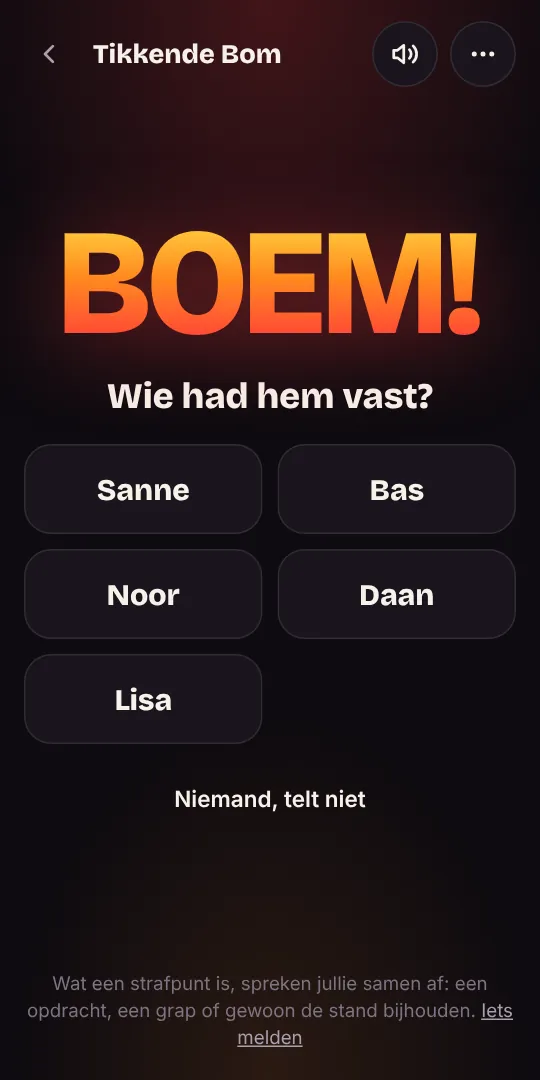
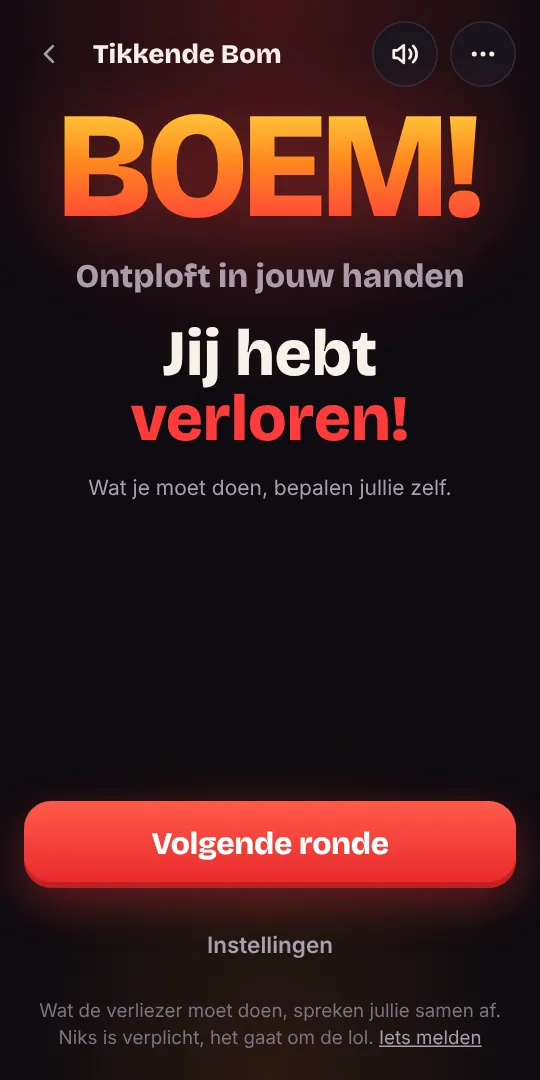
Tikkende Bom simpeler: geen namen en geen strafpunten, wie hem vasthoudt heeft verloren
Je hoeft geen namen meer in te vullen en er worden geen strafpunten of stand bijgehouden. Ontploft de bom, dan staat er
groot "Ontploft in jouw handen. Jij hebt verloren!" en bepalen jullie zelf wat de verliezer doet. Daarna de volgende
ronde. Instellingen: alleen de lengte van de lont en of er pittige opdrachten tussen zitten. Uitleg (nu 4 dia's),
de tekst in De Spelkeet en de README aangepast.

Claude-Session: https://claude.ai/code/session_01PPbKnCgFtwn9juUNX2EXqM

diff --git a/public/bom.html b/public/bom.html
@@ -92,19 +92,6 @@ p{margin:0}
 .steps b{color:var(--txt)}
 .howlink{display:inline-flex;align-items:center;gap:8px;margin-top:12px;min-height:40px;padding:0 14px;border-radius:999px;background:var(--card-2);font-weight:700;font-size:14px}
 
-.add{display:flex;gap:8px}
-.add input{flex:1;min-width:0;min-height:52px;padding:0 16px;border:0;border-radius:16px;background:var(--bg-2);box-shadow:inset 0 0 0 1px var(--line);color:var(--txt);font:600 17px var(--body)}
-.add input::placeholder{color:#6f6676}
-.add input:focus{outline:3px solid var(--orange);outline-offset:1px}
-.add button{flex:none;width:52px;min-height:52px;border-radius:16px;background:var(--orange);color:#1a0d06;font:800 26px/1 var(--head)}
-.add button:disabled{opacity:.4}
-.names{display:flex;flex-wrap:wrap;gap:8px;margin-top:12px}
-.names:empty{display:none}
-.name{display:inline-flex;align-items:center;gap:6px;min-height:40px;padding:0 6px 0 14px;border-radius:999px;background:var(--card-2);font-weight:700}
-.name button{display:grid;place-items:center;width:30px;height:30px;border-radius:50%;color:var(--mute);font-size:16px}
-.name button:hover{background:rgba(255,255,255,.08);color:var(--txt)}
-.hint{margin-top:10px;color:var(--mute);font-size:13.5px}
-
 .set{display:grid;gap:14px}
 .set > div{display:grid;gap:8px}
 .seg{display:grid;grid-auto-flow:column;grid-auto-columns:1fr;gap:4px;padding:4px;border-radius:16px;background:var(--bg-2);box-shadow:inset 0 0 0 1px var(--line)}
@@ -114,12 +101,10 @@ p{margin:0}
 /* de opdracht */
 .round{display:flex;align-items:center;justify-content:center;gap:8px;flex-wrap:wrap}
 .pill{display:inline-flex;align-items:center;gap:6px;min-height:30px;padding:0 12px;border-radius:999px;background:var(--card);box-shadow:inset 0 0 0 1px var(--line);font-size:13px;font-weight:700;letter-spacing:.06em;text-transform:uppercase;color:var(--mute)}
-.pill.hot{background:rgba(255,210,63,.14);box-shadow:inset 0 0 0 1px rgba(255,210,63,.55);color:var(--yellow)}
 .task{display:grid;gap:10px;padding:28px 20px;border-radius:28px;text-align:center;background:linear-gradient(160deg,#2a1d2c,#1a131c);box-shadow:inset 0 0 0 1px rgba(255,138,31,.28),0 20px 60px rgba(0,0,0,.45)}
 .task .label{color:var(--orange)}
 .task .say{font-family:var(--head);font-weight:800;font-size:clamp(32px,9.5vw,46px);line-height:1.04;text-wrap:balance;overflow-wrap:anywhere}
 .who{text-align:center;font-size:17px;color:var(--mute)}
-.who b{color:var(--txt);font-family:var(--head);font-size:22px}
 .grow{flex:1}
 
 /* de bom tikt */
@@ -144,26 +129,9 @@ p{margin:0}
 .shake{animation:shake .45s}
 @keyframes shake{10%,90%{transform:translateX(-2px)}20%,80%{transform:translateX(4px)}30%,50%,70%{transform:translateX(-8px)}40%,60%{transform:translateX(8px)}}
 @media (prefers-reduced-motion:reduce){.boom h2,.shake{animation:none}}
-.boom .q{font-family:var(--head);font-weight:800;font-size:24px}
-.pick{display:grid;grid-template-columns:1fr 1fr;gap:10px}
-.pick button{min-height:60px;padding:8px 12px;border-radius:18px;background:var(--card);box-shadow:inset 0 0 0 1px var(--line);font-family:var(--head);font-weight:800;font-size:20px;overflow-wrap:anywhere}
-.pick button:hover,.pick button:focus-visible{background:var(--card-2);box-shadow:inset 0 0 0 2px var(--red)}
-.big{font-family:var(--head);font-weight:800;font-size:30px;line-height:1.1}
-.big em{font-style:normal;color:var(--red)}
-
-/* de stand */
-.score{display:grid;gap:8px;margin:0;padding:0;list-style:none}
-.score li{display:grid;grid-template-columns:28px 1fr auto;align-items:center;gap:10px;padding:12px 14px;border-radius:16px;background:var(--card);box-shadow:inset 0 0 0 1px var(--line);position:relative;overflow:hidden}
-.score li .bar{position:absolute;left:0;top:0;bottom:0;background:linear-gradient(90deg,rgba(255,59,59,.22),rgba(255,138,31,.08));z-index:0;transition:width .5s ease-out}
-.score li > *:not(.bar){position:relative;z-index:1}
-.score .pos{font-family:var(--head);font-weight:800;color:var(--mute)}
-.score .nm{font-weight:700;font-size:17px;overflow-wrap:anywhere}
-.score .pt{font-family:var(--head);font-weight:800;font-size:22px}
-.score .pt small{font-family:var(--body);font-weight:600;font-size:12px;color:var(--mute);margin-left:4px}
-.score li.new{box-shadow:inset 0 0 0 2px var(--red)}
-.winner{display:grid;justify-items:center;gap:6px;text-align:center;padding:24px 16px;border-radius:26px;background:linear-gradient(160deg,#3a1418,#1c1216);box-shadow:inset 0 0 0 1px rgba(255,59,59,.4)}
-.winner .crown{font-size:40px;line-height:1}
-.winner b{font-family:var(--head);font-weight:800;font-size:clamp(34px,10vw,48px);line-height:1}
+.boom .hands{font-family:var(--head);font-weight:800;font-size:22px;color:var(--mute)}
+.boom .lost{font-family:var(--head);font-weight:800;font-size:clamp(40px,12vw,58px);line-height:1;color:var(--txt);text-wrap:balance}
+.boom .lost em{font-style:normal;color:var(--red)}
 
 /* pauze en menu */
 .overlay{position:fixed;inset:0;z-index:20;display:grid;place-items:center;padding:24px;background:rgba(8,6,10,.82);-webkit-backdrop-filter:blur(8px);backdrop-filter:blur(8px)}
@@ -191,13 +159,13 @@ p{margin:0}
     <button class="iconbtn" id="menuBtn" type="button" aria-label="Menu" aria-expanded="false"><svg width="20" height="20" viewBox="0 0 24 24" fill="currentColor" aria-hidden="true"><circle cx="5" cy="12" r="2"/><circle cx="12" cy="12" r="2"/><circle cx="19" cy="12" r="2"/></svg></button>
   </header>
   <main id="screen" class="screen"></main>
-  <p class="fine" id="fine">Wat een strafpunt is, spreken jullie samen af: een opdracht, een grap of gewoon de stand bijhouden. <a href="/melden">Iets melden</a></p>
+  <p class="fine" id="fine">Wat de verliezer moet doen, spreken jullie samen af. Niks is verplicht, het gaat om de lol. <a href="/melden">Iets melden</a></p>
 </div>
 
 <div class="menu" id="menu" hidden>
   <nav aria-label="Menu">
     <button type="button" data-act="uitleg">❓ Hoe werkt het?</button>
-    <button type="button" data-act="stop" id="menuStop">🏁 Stoppen en de stand zien</button>
+    <button type="button" data-act="instellingen" id="menuSet">⚙ Instellingen</button>
     <a href="/review?spel=bom">⭐ Wat vind je ervan?</a>
     <a href="/melden">🚩 Iets melden</a>
     <a href="/?tab=een">🏠 Terug naar De Spelkeet</a>
@@ -257,23 +225,18 @@ function opdrachten(pittig){
   return shuffle(out);
 }
 
-/* ================= INSTELLINGEN EN STAND ================= */
+/* ================= INSTELLINGEN ================= */
+// Geen namen en geen punten: bij wie hij ontploft, heeft verloren, en wat die moet doen bepalen jullie zelf.
 const TIJD = { kort: [10, 25], normaal: [15, 45], lang: [30, 70] };
 const KEY = 'spelkeet-bom';
 const load = () => { try { return JSON.parse(localStorage.getItem(KEY)) || {}; } catch (e) { return {}; } };
 const saved = load();
-const S = {
-  spelers: Array.isArray(saved.spelers) ? saved.spelers.filter((n) => typeof n === 'string').slice(0, 12) : [],
-  punten: [1, 2, 3].includes(saved.punten) ? saved.punten : 2,
-  tijd: TIJD[saved.tijd] ? saved.tijd : 'normaal',
-  pittig: !!saved.pittig,
-  geluid: saved.geluid !== false,
-};
+const S = { tijd: TIJD[saved.tijd] ? saved.tijd : 'normaal', pittig: !!saved.pittig, geluid: saved.geluid !== false };
 const save = () => { try { localStorage.setItem(KEY, JSON.stringify(S)); } catch (e) { /* geen opslag: dan vergeet hij het */ } };
-// het potje van nu
+// het potje van nu: welke ronde en welke opdrachten nog over zijn
 let G = null;
 function nieuwPotje(){
-  G = { ronde: 0, scores: Object.fromEntries(S.spelers.map((n) => [n, 0])), knallen: 0, houder: S.spelers.length ? Math.floor(Math.random() * S.spelers.length) : -1, bag: opdrachten(S.pittig), opdracht: null, dubbel: false, laatste: null, start: Date.now() };
+  G = { ronde: 0, bag: opdrachten(S.pittig), opdracht: null };
   try { fetch('/api/potje', { method: 'POST', headers: { 'Content-Type': 'application/json' }, body: JSON.stringify({ spel: 'bom' }), keepalive: true }).catch(() => {}); } catch (e) { /* niet erg */ }
 }
 function volgendeOpdracht(){
@@ -347,7 +310,6 @@ function tik(){
 }
 function knal(){
   schermAan(false); boemGeluid(); tril([500, 120, 300]);
-  G.knallen++;
   toon('boem');
 }
 // een telefoon die op slot gaat of een andere app: dan even pauze, zodat niemand onterecht ontploft
@@ -364,39 +326,29 @@ const BOMB = (cls = '') => `<svg class="bomb ${cls}" viewBox="0 0 200 200" aria-
   <ellipse cx="72" cy="94" rx="18" ry="10" fill="#fff" opacity=".16" transform="rotate(-35 72 94)"/>
   <g class="spark"><circle cx="174" cy="24" r="20" fill="url(#sg)"/><path d="M174 8l3 11 11 5-11 3-3 11-3-11-11-3 11-5z" fill="#fff8d6"/></g>
 </svg>`;
-const punten = () => S.punten * (G && G.dubbel ? 2 : 1);
-const ptTekst = (n) => `${n} strafpunt${n === 1 ? '' : 'en'}`;
 const SCHERM = {
   start(){
-    const n = S.spelers.length;
     return `<section class="hero">${BOMB()}<h1>Tikkende <span>Bom</span></h1><p>Eén telefoon, doorgeven en niet ontploffen.</p></section>
     <section class="card">
       <h2>Zo werkt het</h2>
       <ol class="steps">
         <li><span>De telefoon geeft een <b>opdracht</b>, zoals <b>"een dier met een P"</b>.</span></li>
         <li><span>Start de bom. <b>Noem iets</b> dat past en <b>geef de telefoon door</b>. Niks zeggen of iets dubbel zeggen? Dan moet je hem houden tot je wel iets weet.</span></li>
-        <li><span>Bij de <b>knal</b> krijgt wie hem vasthoudt <b>strafpunten</b>. Niemand weet hoe lang de lont is.</span></li>
+        <li><span>Ontploft hij <b>in jouw handen</b>? Dan heb <b>jij verloren</b>. Wat je moet doen, bepalen jullie zelf. Niemand weet hoe lang de lont is.</span></li>
       </ol>
       <button class="howlink" type="button" data-act="uitleg">Uitleg met plaatjes ›</button>
     </section>
-    <section class="card">
-      <h2>Wie doen er mee?</h2>
-      <form class="add" id="addForm" autocomplete="off"><input id="nameIn" maxlength="16" placeholder="Naam" enterkeyhint="done" aria-label="Naam van een speler"${n >= 12 ? ' disabled' : ''}><button type="submit" aria-label="Speler toevoegen"${n >= 12 ? ' disabled' : ''}>+</button></form>
-      <div class="names">${S.spelers.map((s, i) => `<span class="name">${esc(s)}<button type="button" data-del="${i}" aria-label="${esc(s)} weghalen">✕</button></span>`).join('')}</div>
-      <p class="hint">${n ? `${n} speler${n === 1 ? '' : 's'}${n >= 12 ? ' (meer past er niet)' : ''}. Met namen houdt de telefoon de strafpunten bij.` : 'Mag ook zonder namen: dan houden jullie de strafpunten zelf bij.'}</p>
-    </section>
     <section class="card set">
-      <div><span class="label">Strafpunten per knal</span><div class="seg" role="group" aria-label="Strafpunten per knal">${[1, 2, 3].map((p) => `<button type="button" data-punten="${p}" aria-pressed="${S.punten === p}">${p}</button>`).join('')}</div></div>
       <div><span class="label">Lengte van de lont</span><div class="seg" role="group" aria-label="Lengte van de lont">${[['kort', 'Kort'], ['normaal', 'Normaal'], ['lang', 'Lang']].map(([k, t]) => `<button type="button" data-tijd="${k}" aria-pressed="${S.tijd === k}">${t}</button>`).join('')}</div><p class="muted">${{ kort: 'Tussen 10 en 25 seconden', normaal: 'Tussen 15 en 45 seconden', lang: 'Tussen 30 en 70 seconden' }[S.tijd]}, maar niemand weet precies wanneer.</p></div>
       <div><span class="label">Opdrachten</span><div class="seg" role="group" aria-label="Soort opdrachten"><button type="button" data-pittig="0" aria-pressed="${!S.pittig}">Gewoon</button><button type="button" data-pittig="1" aria-pressed="${S.pittig}">Met pittige</button></div></div>
     </section>
     <button class="btn red" type="button" data-act="begin">Start het spel</button>`;
   },
   klaar(){
-    const [wat, tekst] = G.opdracht, h = G.houder >= 0 ? S.spelers[G.houder] : null;
-    return `<div class="round"><span class="pill">Ronde ${G.ronde}</span>${G.dubbel ? `<span class="pill hot">Dubbel: ${ptTekst(punten())}</span>` : ''}</div>
+    const [wat, tekst] = G.opdracht;
+    return `<div class="round"><span class="pill">Ronde ${G.ronde}</span></div>
     <section class="task"><span class="label">${esc(wat)}</span><p class="say">${esc(tekst)}</p></section>
-    ${h ? `<p class="who"><b>${esc(h)}</b> begint</p>` : `<p class="who">Wie begint, pakt de telefoon</p>`}
+    <p class="who">Wie begint, pakt de telefoon</p>
     <div class="grow"></div>
     <button class="btn red" type="button" data-act="bom">💣 Start de bom</button>
     <button class="btn ghost" type="button" data-act="ander">Andere opdracht</button>`;
@@ -409,38 +361,15 @@ const SCHERM = {
     <button class="pausebtn" type="button" data-act="pauze"><svg width="16" height="16" viewBox="0 0 24 24" fill="currentColor" aria-hidden="true"><rect x="6" y="5" width="4" height="14" rx="1"/><rect x="14" y="5" width="4" height="14" rx="1"/></svg>Pauze</button>`;
   },
   boem(){
-    const p = punten();
     return `<h2>Boem!</h2>
-    ${S.spelers.length
-      ? `<p class="q">Wie had hem vast?</p><div class="pick">${S.spelers.map((s, i) => `<button type="button" data-raak="${i}">${esc(s)}</button>`).join('')}</div><button class="textlink" type="button" data-act="niemand">Niemand, telt niet</button>`
-      : `<p class="big">Wie hem vasthoudt: <em>${ptTekst(p)}</em></p><div class="grow"></div><button class="btn red" type="button" data-act="volgende">Volgende ronde</button><button class="btn ghost" type="button" data-act="stop">Stoppen</button>`}`;
-  },
-  stand(){
-    const p = punten(), l = G.laatste;
-    return `${l != null ? `<p class="big"><em>+${p}</em> voor ${esc(S.spelers[l])}</p>` : '<p class="big">Telt niet. Door!</p>'}
-    ${lijst(l)}
+    <p class="hands">Ontploft in jouw handen</p>
+    <p class="lost">Jij hebt <em>verloren!</em></p>
+    <p class="muted">Wat je moet doen, bepalen jullie zelf.</p>
     <div class="grow"></div>
     <button class="btn red" type="button" data-act="volgende">Volgende ronde</button>
-    <button class="btn ghost" type="button" data-act="stop">Stoppen</button>`;
-  },
-  einde(){
-    if (!S.spelers.length) {
-      return `<section class="winner"><span class="crown">💥</span><span class="label">Klaar!</span><b>${G.knallen} keer boem</b><p class="muted">in ${G.ronde} ronde${G.ronde === 1 ? '' : 's'}</p></section>
-      <div class="grow"></div><button class="btn red" type="button" data-act="opnieuw">Nog een potje</button><button class="btn ghost" type="button" data-act="spelers">Andere instellingen</button>`;
-    }
-    const rij = S.spelers.map((n) => [n, G.scores[n] || 0]).sort((a, b) => b[1] - a[1]), top = rij[0];
-    return `<section class="winner"><span class="crown">💣</span><span class="label">De grootste pechvogel</span><b>${top[1] ? esc(top[0]) : 'Niemand!'}</b><p class="muted">${top[1] ? `${ptTekst(top[1])} in ${G.ronde} ronde${G.ronde === 1 ? '' : 's'}` : 'Niemand ontplofte. Knap.'}</p></section>
-    ${lijst(null)}
-    <div class="grow"></div>
-    <button class="btn red" type="button" data-act="opnieuw">Nog een potje</button>
-    <button class="btn ghost" type="button" data-act="spelers">Andere spelers</button>`;
+    <button class="textlink" type="button" data-act="instellingen">Instellingen</button>`;
   },
 };
-function lijst(nieuw){
-  const rij = S.spelers.map((n, i) => ({ n, i, p: G.scores[n] || 0 })).sort((a, b) => b.p - a.p);
-  const max = Math.max(1, ...rij.map((r) => r.p));
-  return `<ol class="score" aria-label="De stand">${rij.map((r, k) => `<li class="${r.i === nieuw ? 'new' : ''}"><span class="bar" style="width:${Math.round(r.p / max * 100)}%"></span><span class="pos">${k + 1}</span><span class="nm">${esc(r.n)}</span><span class="pt">${r.p}<small>strafp.</small></span></li>`).join('')}</ol>`;
-}
 
 let nu = '';
 function toon(naam){
@@ -453,15 +382,14 @@ function toon(naam){
   if (ander) { el.style.animation = 'none'; void el.offsetWidth; el.style.animation = ''; scrollTo(0, 0); }
   if (naam === 'boem' && !reduce) { document.body.classList.remove('shake'); void document.body.offsetWidth; document.body.classList.add('shake'); }
   $('#topTitle').hidden = naam === 'start';
-  $('#menuStop').hidden = !G || naam === 'start' || naam === 'einde';
+  $('#menuSet').hidden = naam === 'start';
   $('#fine').hidden = naam === 'tikken';
   $('#backTxt').hidden = naam !== 'start';
   // na een potje: hoe vond je het? (zie review.js)
-  if (window.SpelkeetReview) window.SpelkeetReview.stand('bom', naam === 'start' ? 'lobby' : naam === 'einde' ? 'einde' : 'spel', naam === 'einde' ? 2 : naam === 'stand' || (naam === 'boem' && !S.spelers.length) ? 1 : 0);
+  if (window.SpelkeetReview) window.SpelkeetReview.stand('bom', naam === 'start' ? 'lobby' : 'spel', naam === 'boem' ? 1 : 0);
 }
 function nieuweRonde(){
   G.ronde++;
-  G.dubbel = G.ronde > 2 && Math.random() < .14;
   volgendeOpdracht();
   toon('klaar');
 }
@@ -474,47 +402,23 @@ function geluidKnop(){
 function sluitMenu(){ $('#menu').hidden = true; $('#menuBtn').setAttribute('aria-expanded', 'false'); }
 
 /* ================= KNOPPEN ================= */
-document.addEventListener('submit', (e) => {
-  if (e.target.id !== 'addForm') return;
-  e.preventDefault();
-  const v = $('#nameIn').value.replace(/\s+/g, ' ').trim().slice(0, 16);
-  if (!v || S.spelers.length >= 12) return;
-  if (S.spelers.some((s) => s.toLowerCase() === v.toLowerCase())) { $('#nameIn').select(); return; }
-  S.spelers.push(v); save(); toon('start');
-  const inp = $('#nameIn'); if (inp && !inp.disabled) inp.focus();
-});
 document.addEventListener('click', (e) => {
   const t = e.target.closest('button,[data-act]'); if (!t) { if (!$('#menu').hidden && !e.target.closest('#menu nav')) sluitMenu(); return; }
   if (t.id === 'menuBtn') { const m = $('#menu'); m.hidden = !m.hidden; t.setAttribute('aria-expanded', String(!m.hidden)); return; }
   if (t.id === 'soundBtn') { S.geluid = !S.geluid; save(); geluidKnop(); if (S.geluid) tikGeluid(true); return; }
   if (!$('#menu').hidden) sluitMenu();
   const d = t.dataset;
-  if (d.del != null) { S.spelers.splice(+d.del, 1); save(); return toon('start'); }
-  if (d.punten) { S.punten = +d.punten; save(); return toon('start'); }
   if (d.tijd) { S.tijd = d.tijd; save(); return toon('start'); }
-  if (d.pittig) { S.pittig = d.pittig === '1'; save(); return toon('start'); }
-  if (d.raak != null) {
-    const i = +d.raak, n = S.spelers[i];
-    G.scores[n] = (G.scores[n] || 0) + punten(); G.laatste = i; G.houder = i;
-    return toon('stand');
-  }
+  if (d.pittig) { S.pittig = d.pittig === '1'; save(); G = null; return toon('start'); }
   switch (d.act) {
     case 'uitleg': if (window.Uitleg) window.Uitleg.open('bom'); break;
-    case 'begin': {
-      // wat er nog in het naamveld staat, telt ook mee
-      const inp = $('#nameIn'), v = inp ? inp.value.replace(/\s+/g, ' ').trim().slice(0, 16) : '';
-      if (v && S.spelers.length < 12 && !S.spelers.some((s) => s.toLowerCase() === v.toLowerCase())) { S.spelers.push(v); save(); }
-      audio(); nieuwPotje(); nieuweRonde(); break;
-    }
+    case 'begin': audio(); if (!G) nieuwPotje(); nieuweRonde(); break;
     case 'ander': volgendeOpdracht(); toon('klaar'); break;
     case 'bom': toon('tikken'); startBom(); break;
     case 'pauze': pauze(); break;
     case 'verder': $('#pause').hidden = true; audio(); schermAan(true); verder(); break;
-    case 'niemand': G.laatste = null; toon('stand'); break;
     case 'volgende': nieuweRonde(); break;
-    case 'stop': clearTimeout(T.timer); T.loopt = false; $('#pause').hidden = true; schermAan(false); if (G) toon('einde'); break;
-    case 'opnieuw': nieuwPotje(); nieuweRonde(); break;
-    case 'spelers': G = null; toon('start'); break;
+    case 'instellingen': clearTimeout(T.timer); T.loopt = false; $('#pause').hidden = true; schermAan(false); toon('start'); break;
   }
 });
 addEventListener('keydown', (e) => { if (e.key === 'Escape') sluitMenu(); });

diff --git a/public/js/uitleg.js b/public/js/uitleg.js
@@ -74,11 +74,10 @@
       { img: 'kart-4', t: 'Punten en de winkel', p: 'Na elke race krijg je MP-punten. Koop er karts, hoeden, capes en meer mee in de winkel, en maak je eigen coureur.' },
     ] },
     bom: { name: 'Tikkende Bom', c: '#ff3b3b', url: '/bom', slides: [
-      { img: 'bom-1', t: 'Eén telefoon', p: 'Jullie spelen samen op één telefoon: niemand hoeft een code in te voeren. Zet de namen erin (mag ook zonder) en kies hoeveel strafpunten een knal is en hoe lang de lont ongeveer is.' },
+      { img: 'bom-1', t: 'Eén telefoon', p: 'Jullie spelen samen op één telefoon: geen namen, geen codes. Kies hoe lang de lont ongeveer is en of er ook pittige opdrachten tussen zitten, en tik op <b>Start het spel</b>.' },
       { img: 'bom-2', t: 'De opdracht', p: 'Elke ronde komt er een opdracht, zoals <b>een dier met een T</b> of <b>rijm op huis</b>. Te moeilijk? Tik op Andere opdracht. Wie de telefoon heeft, tikt op <b>Start de bom</b>.' },
       { img: 'bom-3', t: 'Noem iets en geef door', p: 'De bom tikt. Noem iets dat past en geef de telefoon snel door. Niks zeggen of iets dat al gezegd is? Dan houd je hem tot je wel iets weet. De laatste seconden tikt hij sneller.' },
-      { img: 'bom-4', t: 'Boem!', p: 'Niemand weet wanneer hij afgaat. Wie hem vasthoudt bij de knal, krijgt de <b>strafpunten</b>; soms telt een ronde dubbel. Tik aan wie het was.' },
-      { img: 'bom-5', t: 'De stand', p: 'De telefoon houdt de stand bij, en wie ontplofte begint de volgende ronde. Tik op <b>Stoppen</b> voor de eindstand en de grootste pechvogel.' },
+      { img: 'bom-4', t: 'Boem!', p: 'Niemand weet wanneer hij afgaat. Ontploft hij <b>in jouw handen</b>, dan heb jij verloren. Wat je moet doen, bepalen jullie zelf. Daarna de volgende ronde.' },
     ] },
   };
   // andere namen voor hetzelfde spel

diff --git a/public/speelhal.html b/public/speelhal.html
@@ -343,7 +343,7 @@ const GAMES = [
   { id: 'bom', mode: 'een', name: 'Tikkende', name2: 'Bom', short: 'Tikkende Bom', acc: '#ff3b3b', tint: '#2a0d10', bg: '#140b0f',
     url: '/bom',
     chips: ['Partyspel', 'Eén telefoon'],
-    text: 'De telefoon geeft een opdracht, zoals een dier met een P, en begint te tikken. Noem iets dat past en geef hem snel door. Niemand weet hoe lang de lont is: wie hem vasthoudt bij de knal, krijgt strafpunten.',
+    text: 'De telefoon geeft een opdracht, zoals een dier met een P, en begint te tikken. Noem iets dat past en geef hem snel door. Niemand weet hoe lang de lont is: ontploft hij in jouw handen, dan heb jij verloren. Wat je moet doen, bepalen jullie zelf.',
     facts: [['Spelers', '2 of meer'], ['Telefoons', 'één, die rondgaat'], ['Lont', '10 tot 70 seconden']],
     cta: 'Speel Tikkende Bom' }
 ];

diff --git a/README.md b/README.md
@@ -65,7 +65,7 @@ Karnemelk Kart is een originele, kleurrijke arcade-kartgame voor in de browser. 
   - Ligt er een mijn op die kaart: boem. Je krijgt de strafpunten per mijn en legt de mijn ergens anders neer: op een kaart of tussen twee kaarten (dan raakt hij ze allebei). Verlegde mijnen ziet iedereen; van de verstopte zie je alleen hoeveel er nog liggen.
   - Daarna gok je rood of zwart en gaat de kaart open. Goed: de volgende is aan de beurt. Fout: 2 strafpunten en je gooit opnieuw. Zo speelt ook de online versie van dark-mark.com. Liggen alle kaarten open, dan legt de host een nieuw veld; de stand blijft staan. Valt wie aan de beurt is weg, dan is de volgende aan de beurt (moest hij nog een mijn leggen, dan doet de server dat). In het menu staat de stand: strafpunten, mijnen, goed en fout gegokt.
 - **Borrelbord** (via De Spelkeet, of los op `/borrelbord`, ook als eigen app op het beginscherm): het partyspel als ganzenbord, online met 2 tot 10 vrienden. Iemand maakt een tafel en deelt de code of de link (`/borrelbord/ABCD`); de host gooit als eerste.
-- **Tikkende Bom** (tabblad Eén telefoon, of los op `/bom`): een partyspel op één telefoon die rondgaat, in een eigen donkere stijl. De telefoon geeft een opdracht (zoals een dier met een P, of rijm op huis) en tikt; noem iets en geef hem door. Niemand weet hoe lang de lont is; wie hem vasthoudt bij de knal krijgt strafpunten. Met of zonder namen (met namen houdt de telefoon de stand bij), 1 tot 3 strafpunten per knal, een korte, normale of lange lont, en desgewenst pittige opdrachten. Draait helemaal op de telefoon; alleen het begin van een potje gaat naar de statistieken (`/api/potje`).
+- **Tikkende Bom** (tabblad Eén telefoon, of los op `/bom`): een partyspel op één telefoon die rondgaat, in een eigen donkere stijl. De telefoon geeft een opdracht (zoals een dier met een P, of rijm op huis) en tikt; noem iets en geef hem door. Niemand weet hoe lang de lont is; ontploft hij in jouw handen, dan heb jij verloren (wat je moet doen, bepalen jullie zelf). Geen namen en geen punten; je kiest alleen een korte, normale of lange lont en of er pittige opdrachten tussen zitten. Draait helemaal op de telefoon; alleen het begin van een potje gaat naar de statistieken (`/api/potje`).
   - Een eigen stijl: een vrolijk spelbord van 7 bij 7 met gekleurde vakjes op een houten tafel, pionnen in de kleur van elke speler die vakje voor vakje lopen, en een grote steen om te gooien.
   - **Drie versies, de host kiest** in de lobby (en na een potje, voor het volgende): *licht* (zo'n 10 strafpunten per speler per potje, geen mega strafpunten; de winnaar kiest wie er 3 krijgt, de laatste krijgt er 2), *middel* (zo'n 15; de regels hieronder) en *extreem* (zo'n 25: overal meer, mega strafpunten op 24 en 47 en bij de doodskop, en de winnaar en de laatste allebei een mega strafpunt). Zonder keuze is het middel.
   - 48 vakjes van start tot finish. Om de beurt gooi je met je telefoon en loopt je pion zoveel vakjes. Bij middel: rood: strafpunten voor jou (1 of 2). Groen: geef 1 tot 3 strafpunten aan wie jij kiest. Oranje: iedereen of je buren krijgen er 1, of de laatste krijgt er 2. Paars: een vraag voor de groep ("Wie single is, krijgt er 2") of bedenk een regel. Geel: dubbel of niks (even: de rest krijgt er 1, oneven: jij krijgt er 3), een duel (allebei gooien, de laagste krijgt er 2), een maatje (die krijgt mee als jij iets krijgt) of van plek ruilen.
